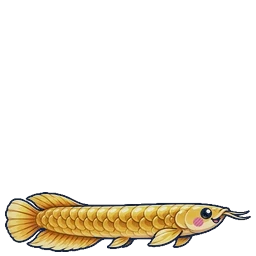
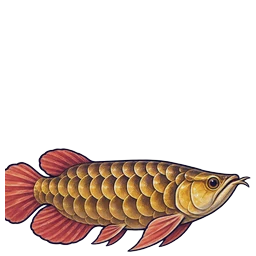
Regenerate five creature sprites and update their portraits

Changed region(s): [[0.0, 0.5625, 1.0, 1.0]]

diff --git a/src/data/portraitcrops.js b/src/data/portraitcrops.js
@@ -18,7 +18,7 @@ export const PORTRAIT_CROPS = {
   'species/box_jellyfish': [0.496, 0.525, 0.73, 0.73],
   'species/bronze_warrior': [0.5, 0.49, 0.788, 0.788],
   'species/bullfrog': [0.498, 0.597, 0.663, 0.663],
-  'species/bunian': [0.498, 0.514, 0.753, 0.753],
+  'species/bunian': [0.5, 0.403, 0.766, 0.766],
   'species/bunker_bat': [0.498, 0.549, 0.772, 0.772],
   'species/carnivorous_plant': [0.498, 0.514, 0.759, 0.759],
   'species/casuarina_dryad': [0.498, 0.483, 0.734, 0.734],
@@ -38,7 +38,7 @@ export const PORTRAIT_CROPS = {
   'species/dairy_goat': [0.5, 0.518, 0.705, 0.705],
   'species/dock_rat': [0.5, 0.521, 0.685, 0.685],
   'species/drowned_sailor': [0.498, 0.386, 0.788, 0.788],
-  'species/dugong': [0.711, 0.766, 0.586, 0.586],
+  'species/dugong': [0.5, 0.621, 0.788, 0.788],
   'species/duyung': [0.498, 0.532, 0.669, 0.669],
   'species/estuarine_stingray': [0.5, 0.591, 0.788, 0.788],
   'species/excavator_crab': [0.5, 0.571, 0.788, 0.788],
@@ -165,16 +165,16 @@ export const PORTRAIT_CROPS = {
   'species/vampire_bat': [0.5, 0.704, 0.788, 0.788],
   'species/void_eel': [0.5, 0.54, 0.66, 0.66],
   'species/water_buffalo': [0.5, 0.637, 0.788, 0.788],
-  'species/water_monitor': [0.5, 0.593, 0.788, 0.788],
+  'species/water_monitor': [0.5, 0.547, 0.788, 0.788],
   'species/weaver_ant': [0.5, 0.652, 0.788, 0.788],
   'species/white_bellied_sea_eagle': [0.5, 0.501, 0.708, 0.708],
-  'species/wild_arowana': [0.737, 0.853, 0.529, 0.529],
+  'species/wild_arowana': [0.7, 0.757, 0.609, 0.609],
   'species/wild_boar': [0.498, 0.558, 0.676, 0.676],
   'species/wild_dog': [0.498, 0.525, 0.673, 0.673],
   'species/wild_hornet': [0.5, 0.536, 0.788, 0.788],
   'species/will_o_wisp': [0.498, 0.47, 0.753, 0.753],
   'species/wraith': [0.502, 0.567, 0.714, 0.714],
-  'bosses/abyssal_oarfish': [0.5, 0.458, 0.697, 0.697],
+  'bosses/abyssal_oarfish': [0.5, 0.466, 0.764, 0.764],
   'bosses/ancient_tembusu': [0.498, 0.573, 0.72, 0.72],
   'bosses/arowana_emperor': [0.5, 0.575, 0.676, 0.676],
   'bosses/atlas_moth_empress': [0.5, 0.583, 0.712, 0.712],

diff --git a/tools/portrait_crops.py b/tools/portrait_crops.py
@@ -3,7 +3,7 @@ import sys, os, json
 from PIL import Image
 root = sys.argv[1]
 out = {}
-HEAD_RIGHT = {'wild_arowana', 'dugong'}   # long, low pictures with the head on the right
+HEAD_RIGHT = {'wild_arowana'}   # long, low pictures with the head on the right
 for sub in ('species', 'bosses'):
     d = os.path.join(root, 'assets/creatures', sub)
     for f in sorted(os.listdir(d)):
